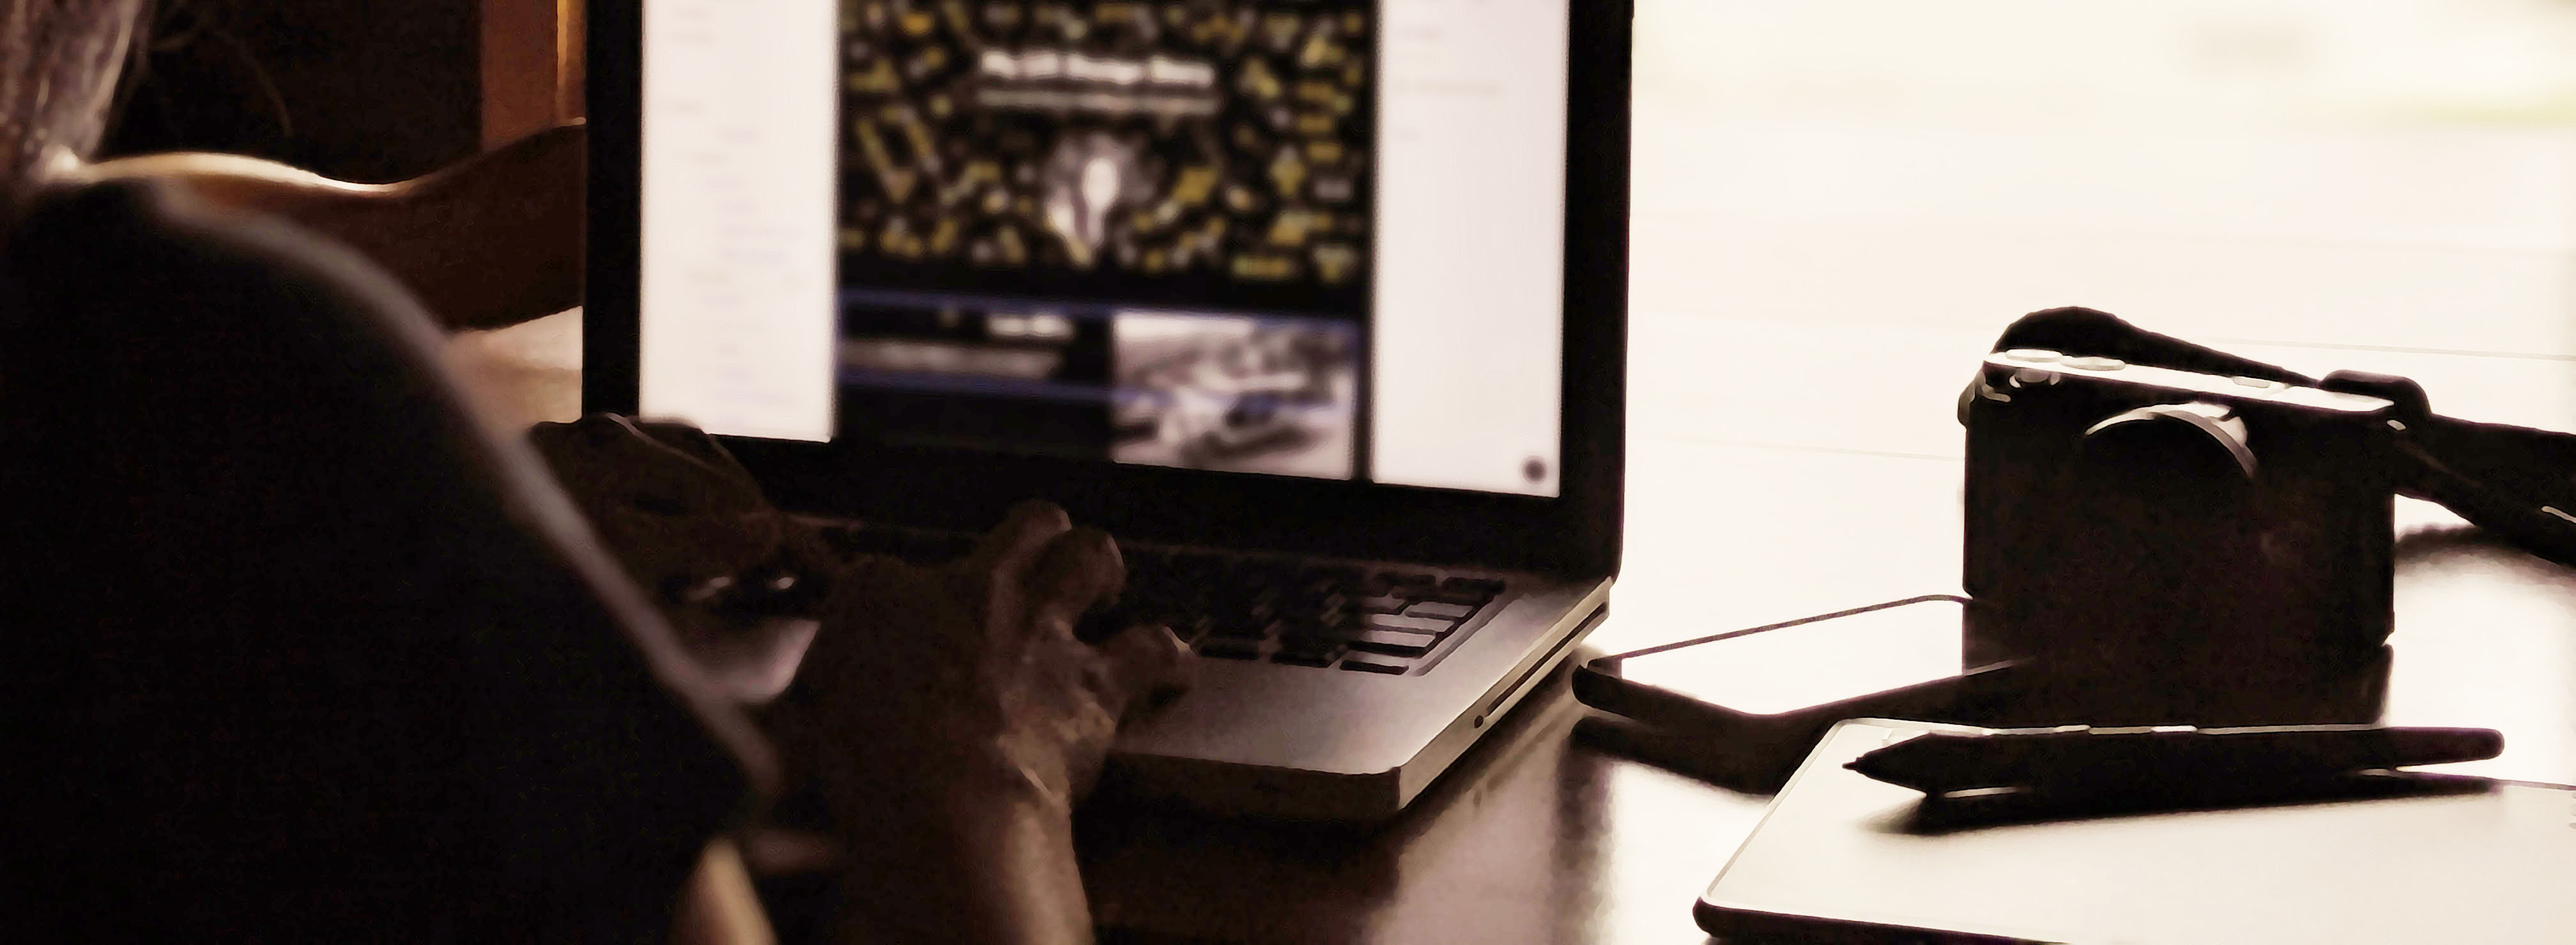
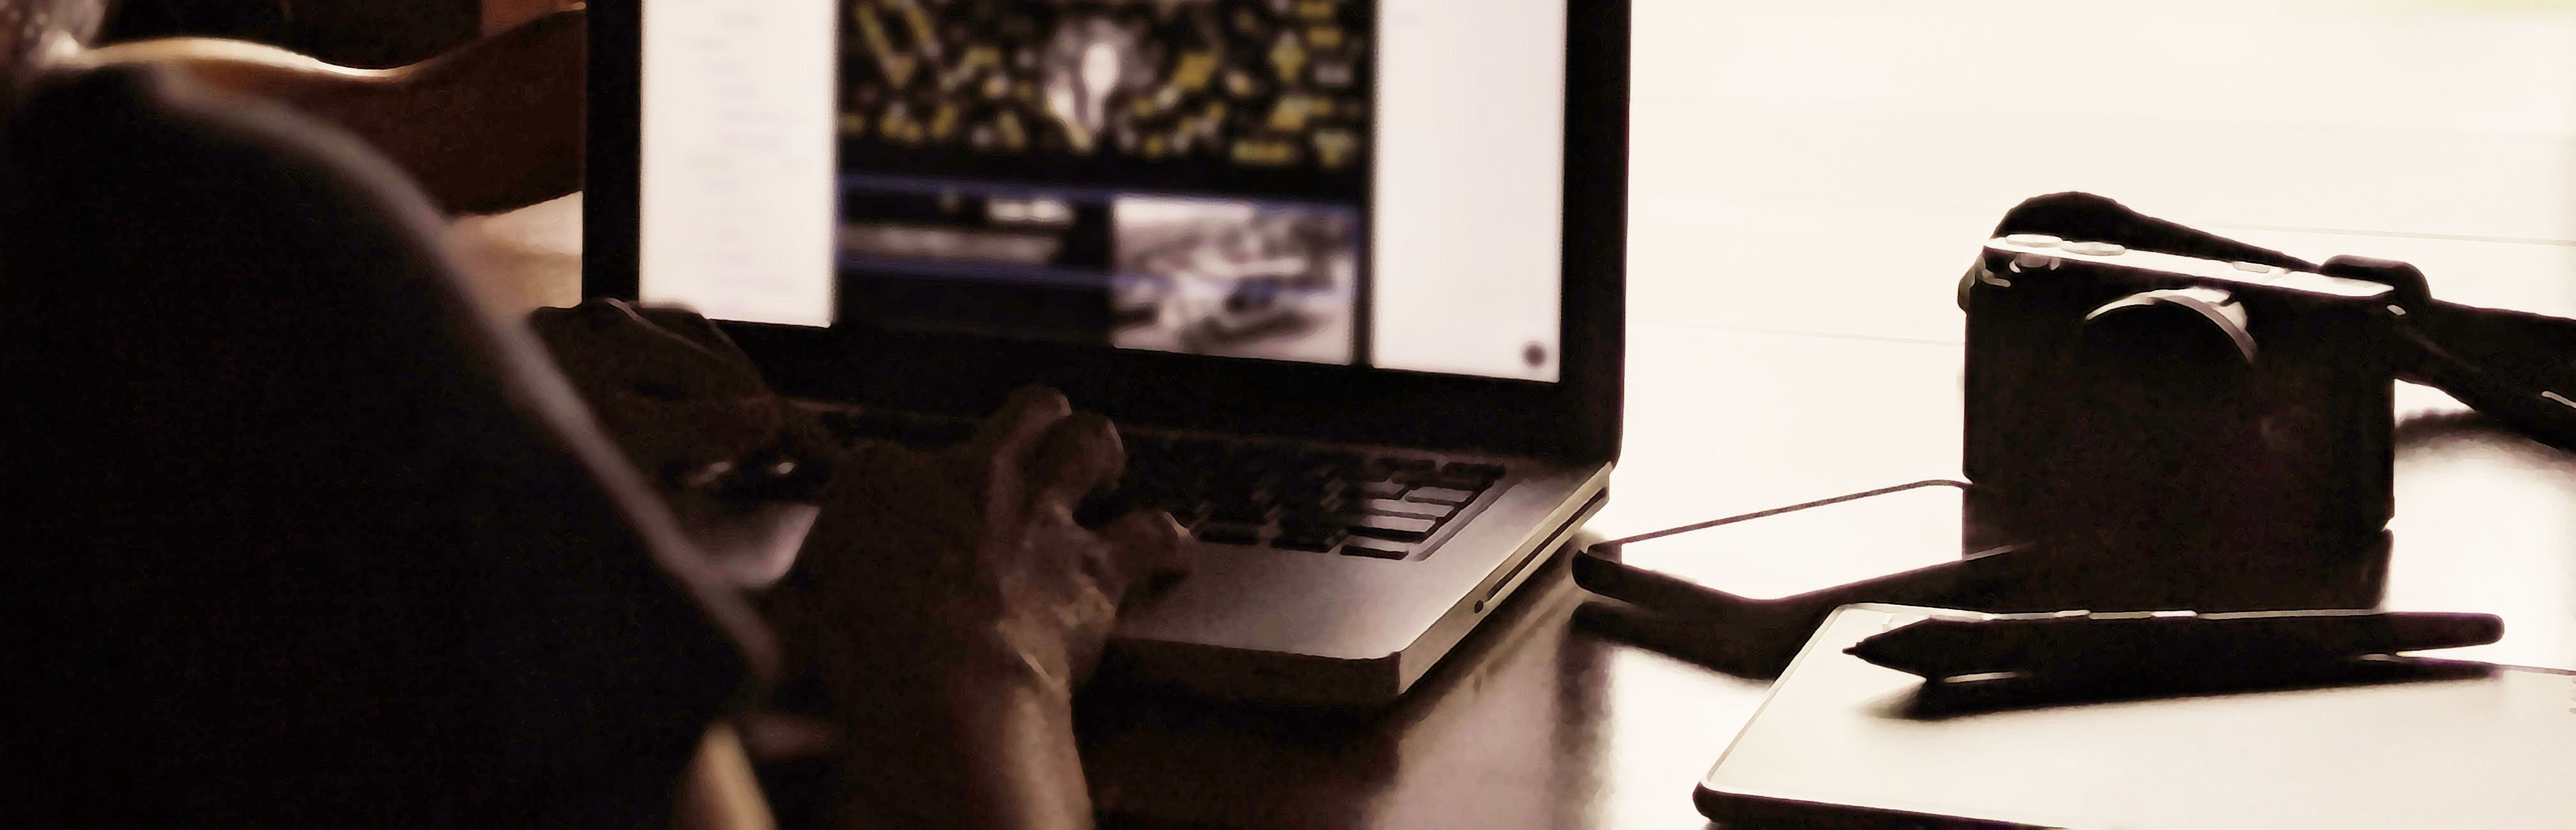
Background images fixed.

diff --git a/filo.html b/filo.html
@@ -127,7 +127,7 @@
 
 <!-- Research ––––––––––––––––––––––––––––––––––––––––––––––––––-->
 <div style="background-color:#212121"><a name="research"></a>
-<div class="section_background" style="background: url(../images/books.jpg) center">
+<div class="research background">
   <div class="container">
     <div class="section-text">
     <h3>Research</h3>
@@ -314,7 +314,7 @@
 
 <!-- Information Architecture ––––––––––––––––––––––––––––––––––––––––––––––––––-->
 <div style="background-color:#121212"><a name="infoarchi"></a>
-<div class="section_background" style="background: url(../images/drawers.jpg) center">
+<div class="infoarchi background">
   <div class="container">
     <div class="section-text">
     <h3>Information Architecture</h3>
@@ -457,7 +457,7 @@
 
 <!-- Branding ––––––––––––––––––––––––––––––––––––––––––––––––––-->
 <div style="background-color:#212121"><a name="branding"></a>
-<div class="section_background" style="background: url(../images/type.jpg) center">
+<div class="branding background">
   <div class="container">
     <div class="section-text">
     <h3>Branding</h3>
@@ -536,7 +536,7 @@
 
 <!-- Visual Design ––––––––––––––––––––––––––––––––––––––––––––––––––-->
 <div style="background-color:#121212"><a name="visualdesign"></a>
-<div class="section_background" style="background: url(../images/me_design.jpg) center">
+<div class="visualdesign background">
   <div class="container">
     <div class="section-text">
     <h3>Visual Design</h3>
@@ -601,7 +601,7 @@
 
 <!-- Testing & Conclusion ––––––––––––––––––––––––––––––––––––––––––––––––––-->
 <div style="background-color:#212121"><a name="testing"></a>
-<div class="section_background" style="background: url(../images/3phones.jpg) center">
+<div class="testing background">
   <div class="container">
     <div class="section-text">
     <h3>Testing & Conclusion</h3>

diff --git a/css/skeleton.css b/css/skeleton.css
@@ -595,13 +595,33 @@ text-align: center;
   margin-top: -10px;
 }
 
-.section_background{
+.research {
+    background: url(../images/books.jpg);
+}
+
+.infoarchi {
+    background: url(../images/drawers.jpg);
+}
+
+.branding {
+    background: url(../images/type.jpg);
+}
+
+.visualdesign {
+    background: url(../images/me_design.jpg);
+}
+
+.testing {
+    background: url(../images/3phones.jpg);
+}
+
+.background{
   position:relative;
   height: 250px;
   overflow: hidden;
-  /*background: url(../images/filo_background.png) no-repeat center;*/
-  /*background-repeat: repeat-y;*/
-  background-size: contain;
+  background-repeat: no-repeat;
+  background-position: center;
+  background-size: cover;
   margin-top: 2%;
 }
 

diff --git a/about.html b/about.html
@@ -235,7 +235,7 @@
         <span class="blue">+ Branding</span> (story, logo, color, typography, Illustrator)<br>
         <span class="blue">+ Visual Design</span> (mockups, Sketch, Figma)<br>
         <span class="blue">+ User Testing</span> (Invision, Maze, Lookback, Zoom)<br>
-        <span class="blue">+ Front-End Development</span> (HTML, CSS, Javascript)<br>
+        <span class="blue">+ Front-End Development</span> (HTML, CSS, Javascript, Atom)<br>
         <span class="blue"> + Version Control</span> (Github)<br>
         <span class="blue"> + Behavioral Economics</span><br>
         </p>
